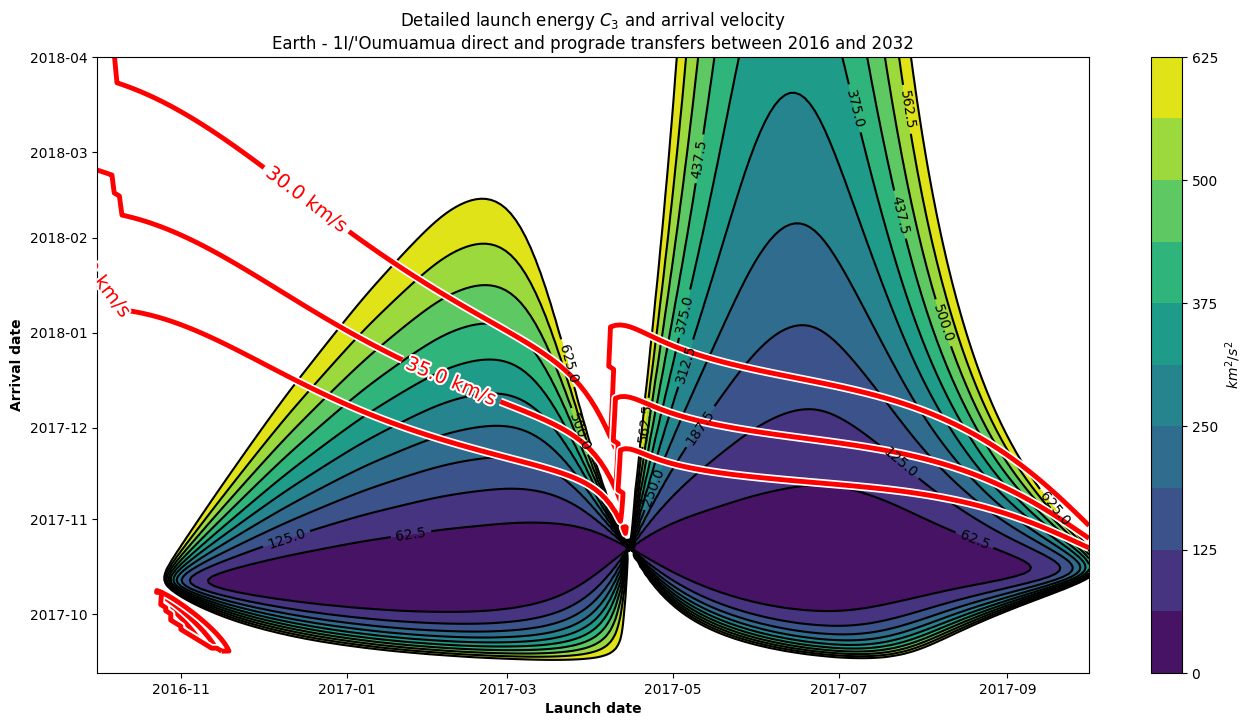
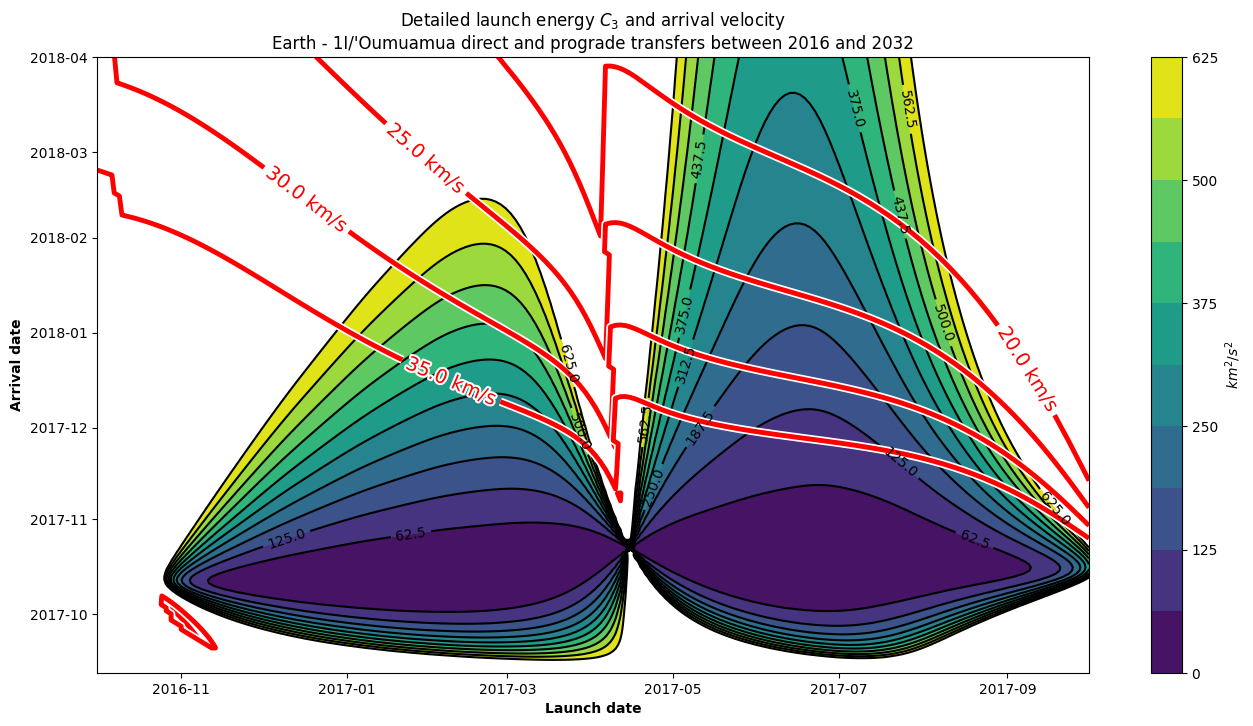
feat: improve optimum section

diff --git a/src/03_direct/excess_velocity.tex b/src/03_direct/excess_velocity.tex
@@ -1,7 +1,7 @@
 \section{Excess velocity at arrival}
 
 The excess velocity at arrival is the difference between the velocity of the
-spacecraft at arrival and the velocity of the interloper at arrival. The
+spacecraft and the velocity of the interloper at arrival. The
 velocity of the spacecraft at arrival is denoted by $\vec{v_{\infty ,2}}$. Note
 that this velocity represents the velocity after the second impulse of Lambert's
 maneuver, leading to a rendezvous with the interloper. The velocity of the
@@ -12,6 +12,9 @@ arrival is:
     \Delta v_2 = \norm{\vec{v_{\infty ,2}} - \vec{v_\text{ISO}}}
 \end{equation}
 
+As discussed in subsection \ref{sec:excess_velocity}, applying this last impulse
+can be avoided on behalf performing a targeting mission. This allows to allocate
+more $\Delta v$ for the first impulse.
 
 \subsection{'Oumuamua}
 
@@ -19,11 +22,27 @@ Porkchop plots for 1I/'Oumuamua representing the excess velocity at arrival are
 shown in figure \ref{fig:oumuamua-direct-prograde-transfer-porkchop-avl} and figure
 \ref{fig:oumuamua-direct-retrograde-transfer-porkchop-avl}.
 
+For short-duration flights, the velocity surplus upon arrival is notably higher,
+contrasting with longer flights where the surplus is reduced. Both prograde and
+retrograde transfers exhibit a similar trend in arrival velocity.
+
+Interestingly, the isolines depicting excess arrival velocity reveal a
+distinctive pattern, all originating from a shared point circa late 2017 for
+both launch and arrival.
+
+Of particular significance is the area delineated by the $2.0$ km/s isoline in
+prograde transfers, representing an optimal velocity for rendezvous with the
+interloper given current technological capabilities. Examining the
+time-of-flight data in Figure
+\ref{fig:oumuamua-direct-prograde-transfer-porkchop}, this region necessitates a
+minimum trip duration of at least 5 years. It is worth noting that the only
+constraints on flight duration are those dictated by mission requirements.
+
+\newpage
 \begin{figure}[H]
   \centering
   \includegraphics[width=\textwidth]{static/oumuamua/direct-prograde-transfer-porkchop-avl.png}
-        \caption[Direct and prograde launch energy porkchop for 'Oumuamua]{Launch energy porkchop plot for 1I/'Oumuamua for a direct and prograde
-        transfer showing the isolines for the arrival velocity required for a rendezvous.}
+        \caption[Direct and prograde launch energy porkchop for 'Oumuamua]{Launch energy porkchop plot for 1I/'Oumuamua for a direct and prograde transfer showing the isolines for the arrival velocity required for a rendezvous.}
   \label{fig:oumuamua-direct-prograde-transfer-porkchop-avl}
 \end{figure}
 
@@ -36,29 +55,31 @@ shown in figure \ref{fig:oumuamua-direct-prograde-transfer-porkchop-avl} and fig
   \label{fig:oumuamua-direct-retrograde-transfer-porkchop-avl}
 \end{figure}
 
-Again, for short times of flight, the excess velocity at arrival is higher
-whereas for longer times of flight, the excess velocity at arrival is lower. 
-
-Nevertheless, the isolines for the excess velocity at arrival show an
-interesting pattern. They all born in a common point. This point is located
-around later 2017 and is analyzed in detail within the next section. 
-
-Regarding comonalities between the prograde and retrograde transfers, both show
-a similar pattern for the arrival velocity.
-
 \subsection{Borisov}
 
 Porkchop plots for 2I/Borisov representing the excess velocity at arrival are
 shown in figure \ref{fig:borisov-direct-prograde-transfer-porkchop-avl} and figure
 \ref{fig:borisov-direct-retrograde-transfer-porkchop-avl}.
 
+Once again, the excess velocity at arrival for Borisov remembers the ones for
+the case of 'Oumuamua. Again, the values are different and higher for the second
+discovered interloper.
+
+Similarly to 'Oumuamua, the lines for the arrival velocity start at a common
+point. In this case, the point is located at the beginning of 2020 for launch
+dates. However, the main difference with the first discovered interloper is that
+a series of closed lines shows for an arrival at year 2020. This could indicate
+a periodic solution. This region is analyzed in detail in the next section.
+
+\newpage
 \begin{figure}[H]
   \centering
   \includegraphics[width=\textwidth]{static/borisov/direct-prograde-transfer-porkchop-avl.png}
         \caption[Direct and prograde arrival excess velocity porkchop for
         Borisov]{Launch energy porkchop plot for 2I/Borisov for a direct and
         prograde transfer showing the isolines for excess velocity at arrival
-        for a rendezvous.}
+        for a rendezvous. The lines originate in the low enery region close to a
+        launch and arrival date during year 2020.}
   \label{fig:borisov-direct-prograde-transfer-porkchop-avl}
 \end{figure}
 
@@ -71,13 +92,3 @@ shown in figure \ref{fig:borisov-direct-prograde-transfer-porkchop-avl} and figu
         for a rendezvous.}
   \label{fig:borisov-direct-retrograde-transfer-porkchop-avl}
 \end{figure}
-
-Once again, the excess velocity at arrival for Borisov remembers the ones for
-the case of 'Oumuamua. Again, the values are different and higher for the second
-discovered interloper.
-
-Similarly to 'Oumuamua, the lines for the arrival velocity start at a common
-point. In this case, the point is located at the beginning of 2020 for launch
-dates. However, the main difference with the first discovered interloper is that
-a series of closed lines shows for an arrival at year 2020. These series are
-analyzed in detail in the next section.

diff --git a/src/03_direct/launch_energy.tex b/src/03_direct/launch_energy.tex
@@ -1,4 +1,4 @@
-\section{Characteristic energy for launch}
+\section{Characteristic energy at launch}
 
 The characteristic energy for launch is the energy required to set a spacecraft
 into the desired targeting orbit. This analysis assumes that the spacecraft
@@ -31,7 +31,8 @@ figure \ref{fig:oumuamua-direct-retrograde-transfer-porkchop}.
   \includegraphics[width=\textwidth]{static/oumuamua/direct-prograde-transfer-porkchop.png}
         \caption[Direct and prograde launch energy porkchop for 'Oumuamua]{Launch energy porkchop plot for 1I/'Oumuamua for a direct and prograde
         transfer showing the isolines for
-        the time of flight required for a targeting.}
+        the time of flight required for a targeting. A region of low transfer
+        energy is located in the lower left corner.}
   \label{fig:oumuamua-direct-prograde-transfer-porkchop}
 \end{figure}
 
@@ -61,7 +62,7 @@ launch velocity vector.
 
 Note that, despite some areas in the figures not being colored, they have a
 solution. These areas do not show any color due to the upper limit for the characteristic
-energy at launch imposed of $C_3 = 10000.00$ km$^2$/s$^2$, imposed by the
+energy at launch imposed of $C_3 = 10000$ km$^2$/s$^2$, imposed by the
 author. This allows for a better representation of the porkchops to visually
 identify regions. This allows to identify a small region, between years 2016 and
 2018 where values for $C_3$ are lower.
@@ -70,7 +71,23 @@ identify regions. This allows to identify a small region, between years 2016 and
 
 Porkchop plots for 2I/Borisov representing the characteristic energy for launch
 are shown in figure \ref{fig:borisov-direct-prograde-transfer-porkchop} and
-figure \ref{fig:borisov-direct-retrograde-transfer-porkchop}.
+figure \ref{fig:borisov-direct-retrograde-transfer-porkchop}. These figures
+remember to the ones for 1I/'Oumuamua, although they present different numerical
+values. Again, the shorter the time of flight, the greater the characteristic
+energy for launching the spacecraft. Retrograde transfers, once again, are less
+efficient than prograde and a pattern of low and high energy solutions is
+present.
+
+Values for Borisov's characteristic energy at launch are lower than 'Oumuamua
+for the same time of flight. Despite having a greater relative velocity, Borisov
+has a lower inclination than 'Oumuamua with respect to the ecliptic. Thanks to
+this low inclination, a spacecraft departing from Earth can benefit a bit more
+from Earth's velocity at launch time, reducing the required energy.
+
+As a result of previous situation, a set of low energy transfers appears between
+years 2016 and 2020. However, as opposite to 'Oumuamua, these seem to extend a
+bit further in the direction of the arrival date. This region is analyzed in
+detail in the next section.
 
 \begin{figure}[H]
   \centering
@@ -78,7 +95,9 @@ figure \ref{fig:borisov-direct-retrograde-transfer-porkchop}.
         \caption[Direct and prograde launch energy porkchop for
         2I/Borisov]{Launch energy porkchop plot for 2I/Borisov for a direct and prograde
         transfer showing the isolines for
-        the time of flight required for a targeting.}
+        the time of flight required for a targeting. Values under 1000
+        km$^2$/s$^2$ show in the lower left corner. This region should be
+        further explored.}
   \label{fig:borisov-direct-prograde-transfer-porkchop}
 \end{figure}
 
@@ -88,23 +107,8 @@ figure \ref{fig:borisov-direct-retrograde-transfer-porkchop}.
         \caption[Direct and retrograde launch energy porkchop for
         2I/Borisov]{Launch energy porkchop plot for 2I/Borisov for a direct and
         retrograde transfer showing the isolines for
-        the time of flight required for a targeting.}
+        the time of flight required for a targeting. The retrograde case shows
+        energies too large for a suitable transfer.}
   \label{fig:borisov-direct-retrograde-transfer-porkchop}
 \end{figure}
-
-These figures remember to the ones for 1I/'Oumuamua, although they present
-different numerical values. Again, the shorter the time of flight, the greater
-the characteristic energy for launch. Also, retrograde transfers are less
-efficient than prograde and a pattern of low and high energy solutions is
-present.
-
-Values for Borisov's characteristic energy for launch are lower for Borisov for
-the same time of flight. Despite having a greater relative velocity, Borisov has
-a lower inclination than 'Oumuamua. Thanks to this low inclination, a spacecraft
-departing from Earth can benefit a bit more from Earth's velocity at launch
-time.
-
-Again, a set of lower values appear between years 2016 and 2020. However, as
-opposite to 'Oumuamua, these seem to extend a bit further in the direction of
-the arrival date.
 

diff --git a/src/03_direct/optimum_transfer.tex b/src/03_direct/optimum_transfer.tex
@@ -9,20 +9,81 @@ constrains may be considered but for the purpose of this work, the launch $C_3$
 energy is the only parameter considered. The reason is that the $\Delta v_1$
 required for a direct transfer is a limiting factor for nowadays technology.
 
-Porkchps represented in figures \ref{fig:oumuamua-direct-prograde-transfer-porkchop} and
-\ref{fig:borisov-direct-prograde-transfer-porkchop}
-
-
-contain an optimum transfer maneuver. This is the maneuver
-for which the $C_3$ energy is minimized. Table \ref{tab:direct-transfer-optimum}
-collects the values for the launch and arrival dates, and the
-characteristic energy for the most optimum transfer.
+Porkchps represented in figures
+\ref{fig:oumuamua-direct-prograde-transfer-porkchop} and
+\ref{fig:borisov-direct-prograde-transfer-porkchop} contain an optimum transfer
+maneuver. This section analyzes the most optimum transfer for each interloper,
+including a detailed description of the trajectory and the impulses required.
 
 \subsection{'Oumuamua}
 
 Among the prograde and retrogade direct transfers, the most optimum transfer is
 contained in the set of prograde orbits. Analyzing figure
-\ref{fig:oumuamua-direct-prograde-transfer-porkchop} reveals that the lowest
+\ref{fig:oumuamua-direct-prograde-transfer-porkchop} in detail, it is possible
+to limit the value of the characteristic energy at launch to ignore high speed
+impulse solutions. This reveals figure \ref{fig:oumuamua-optimum-porkchop}.
+
+\begin{figure}[H]
+  \centering
+  \includegraphics[width=\textwidth]{static/oumuamua/direct-detailed-porkchop-tof.png}
+        \caption[Detailed porkchop showing the optimum transfer for
+        1I/'Oumuamua with the time of flight.]{Detailed porkchop showing the optimum transfer for
+        1I/'Oumuamua. A region under 100 km$^2$/s$^2$ is found, indicating that
+        a low energy transfer is possible. The porkchop is limited up to $25$
+        km/s, which is a feasible value for nowadays technology.}
+  \label{fig:oumuamua-optimum-porkchop}
+\end{figure}
+
+The analysis is also expanded for considering the arrival velocity. This is
+depicted in figure \ref{fig:oumuamua-optimum-porkchop-avl}.
+
+\begin{figure}[H]
+  \centering
+  \includegraphics[width=\textwidth]{static/oumuamua/direct-detailed-porkchop-avl.png}
+        \caption[Detailed porkchop showing the optimum transfer for
+        1I/'Oumuamua with the arrival velocity.]{Detailed porkchop showing the optimum transfer for
+        1I/'Oumuamua.}
+  \label{fig:oumuamua-optimum-porkchop-avl}
+\end{figure}
+
+
+
+
+
+
+
+
+
+
+
+
+
+
+
+
+
+
+
+
+
+
+
+
+
+
+
+
+
+
+
+\newpage
+
+
+
+
+
+
+reveals that the lowest
 characteristic energy is the one collected in table \ref{tab:oumua-direct-transfer-optimum}.
 
 \vspace{0.5cm}

diff --git a/bin/oumuamua_porkchop_optimum.py b/bin/oumuamua_porkchop_optimum.py
@@ -41,7 +41,6 @@ def main():
     )
     porkchop.ax.set_title(f"Detailed launch energy $C_3$ and time of flight\nEarth - 1I/'Oumuamua direct and prograde transfers between 2016 and 2019")
     plt.savefig(f"fig/static/oumuamua/direct-detailed-porkchop-tof.png", bbox_inches="tight")
-    plt.show()
 
     # Get launch energy and arrival velocity
     _, ax = plt.subplots(1, 1, figsize=(16, 8))
@@ -51,7 +50,7 @@ def main():
         ax=ax,
     )
     porkchop.plot_arrival_velocity(
-        levels=np.linspace(30, 40, 3) * u.km / u.s,
+        levels=[20, 25, 30, 35] * u.km / u.s,
         ax=ax
     )
     porkchop.ax.set_title(f"Detailed launch energy $C_3$ and arrival velocity\nEarth - 1I/'Oumuamua direct and prograde transfers between 2016 and 2032")

diff --git a/src/02_targeting/mission_constraints.tex b/src/02_targeting/mission_constraints.tex
@@ -45,6 +45,7 @@ a certain characteristic energy, then the mission is not feasible and the
 target orbit can not be achieved.
 
 \subsection{Excess velocity at arrival}
+\label{sec:excess_velocity}
 
 Another mission constraint within the context of interlopers rendezvous is the
 excess velocity at arrival. Lauch and arrival velocities are used to compute the
